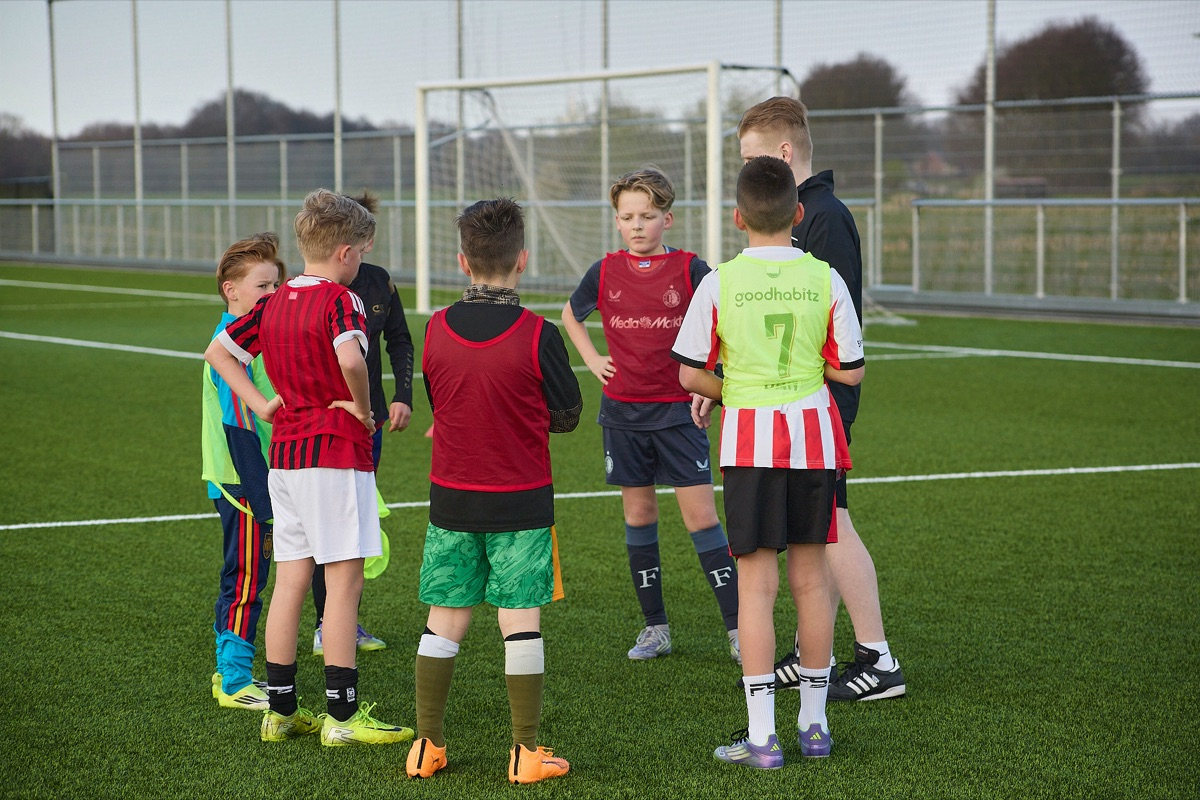
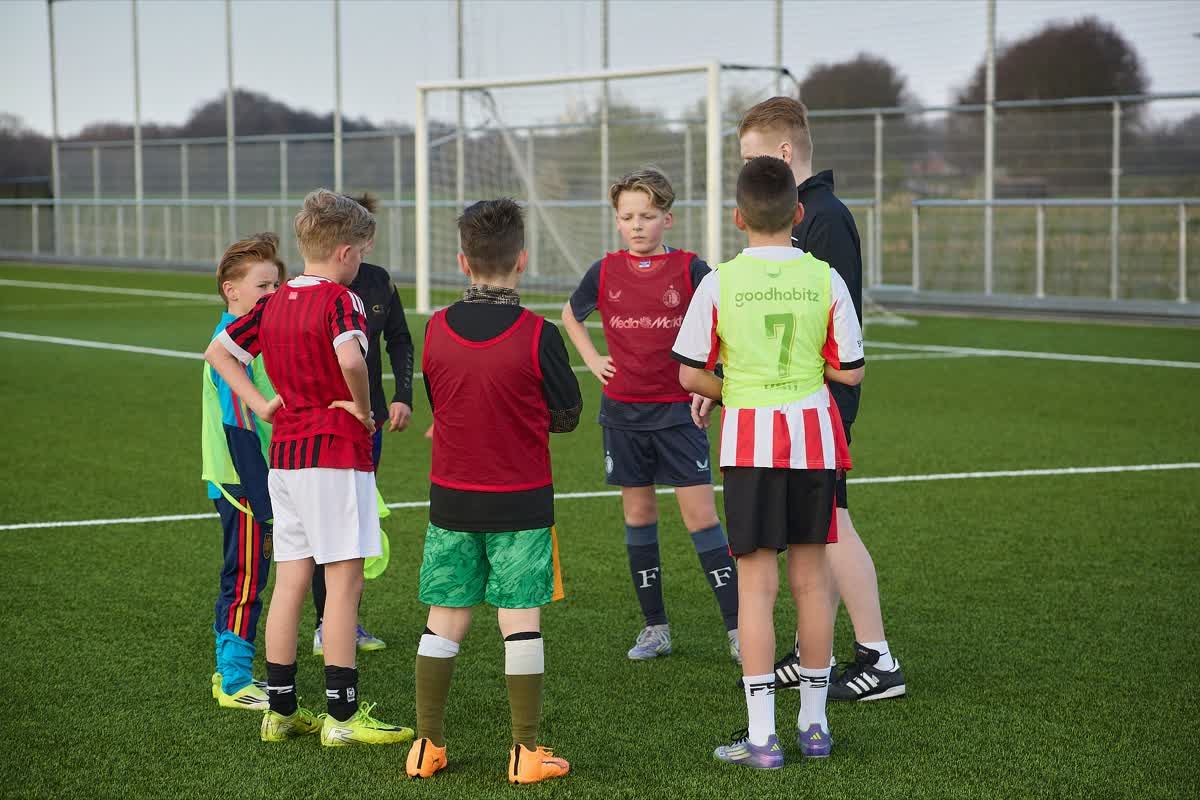
Perf pass 2: LCP preload, mobile zonder video, magere media
Hero: plain img + react-dom preload/fetchPriority; geen video op
mobile/save-data. Feature-video’s alleen desktop+in-view. Logo/JPG
fallbacks verkleind, WebP posters, gallery gecomprimeerd, browserslist
moderner, expliciete width/height op resterende imgs.

diff --git a/src/components/Hero.tsx b/src/components/Hero.tsx
@@ -2,11 +2,10 @@
 
 import React from 'react';
 import Link from 'next/link';
-import Image from 'next/image';
 
 /**
- * LCP-first hero: poster image paints immediately; video loads after idle/timeout
- * so Lighthouse does not wait on a multi‑MB MP4 for LCP.
+ * LCP: plain <img> with fetchPriority (discoverable in SSR HTML, no optimizer delay).
+ * Video only on desktop + when idle / not save-data — keeps mobile Lighthouse lean.
  */
 const Hero = () => {
   const [isMobile, setIsMobile] = React.useState(false);
@@ -14,13 +13,24 @@ const Hero = () => {
   const videoRef = React.useRef<HTMLVideoElement>(null);
 
   React.useEffect(() => {
-    const checkMobile = () => setIsMobile(window.innerWidth <= 768);
-    checkMobile();
-    window.addEventListener('resize', checkMobile);
-    return () => window.removeEventListener('resize', checkMobile);
+    const mq = window.matchMedia('(max-width: 768px)');
+    const sync = () => setIsMobile(mq.matches);
+    sync();
+    mq.addEventListener('change', sync);
+    return () => mq.removeEventListener('change', sync);
   }, []);
 
   React.useEffect(() => {
+    if (isMobile) return;
+
+    const connection = (navigator as Navigator & {
+      connection?: { saveData?: boolean; effectiveType?: string };
+    }).connection;
+    if (connection?.saveData) return;
+    if (connection?.effectiveType === '2g' || connection?.effectiveType === 'slow-2g') {
+      return;
+    }
+
     let cancelled = false;
     const start = () => {
       if (!cancelled) setLoadVideo(true);
@@ -32,25 +42,23 @@ const Hero = () => {
     };
 
     if (typeof w.requestIdleCallback === 'function') {
-      const id = w.requestIdleCallback(start, { timeout: 2000 });
+      const id = w.requestIdleCallback(start, { timeout: 2500 });
       return () => {
         cancelled = true;
         w.cancelIdleCallback?.(id);
       };
     }
 
-    const t = window.setTimeout(start, 1200);
+    const t = window.setTimeout(start, 1500);
     return () => {
       cancelled = true;
       window.clearTimeout(t);
     };
-  }, []);
+  }, [isMobile]);
 
   React.useEffect(() => {
     if (!loadVideo || !videoRef.current) return;
-    videoRef.current.play().catch(() => {
-      /* autoplay may be blocked — poster remains */
-    });
+    videoRef.current.play().catch(() => {});
   }, [loadVideo]);
 
   return (
@@ -69,20 +77,26 @@ const Hero = () => {
         backgroundColor: '#0a0a0a',
       }}
     >
-      {/* LCP element: optimized poster */}
-      <Image
+      {/* LCP element — static img, explicit dimensions, high priority */}
+      <img
         src="/hero-bg.webp"
         alt=""
-        fill
-        priority
-        sizes="100vw"
+        width={1600}
+        height={1065}
+        fetchPriority="high"
+        decoding="async"
         style={{
+          position: 'absolute',
+          top: 0,
+          left: 0,
+          width: '100%',
+          height: '100%',
           objectFit: 'cover',
           zIndex: 0,
         }}
       />
 
-      {loadVideo && (
+      {loadVideo && !isMobile && (
         <video
           ref={videoRef}
           autoPlay

diff --git a/src/app/mini-voetbalschool/page.tsx b/src/app/mini-voetbalschool/page.tsx
@@ -77,6 +77,10 @@ export default function MiniVoetbalschoolPage() {
           src="/gallery/g4.jpg"
           alt=""
           aria-hidden="true"
+          width={1600}
+          height={1067}
+          fetchPriority="high"
+          decoding="async"
           style={{
             position: "absolute",
             inset: 0,
@@ -175,9 +179,12 @@ export default function MiniVoetbalschoolPage() {
           }}
         >
           <img
-            src="/about-us-new.jpg"
+            src="/about-us-new.webp"
             alt="Trainingssfeer bij Janssen Voetbalschool"
+            width={1200}
+            height={800}
             loading="lazy"
+            decoding="async"
             style={{
               width: "100%",
               height: "100%",
@@ -389,7 +396,10 @@ export default function MiniVoetbalschoolPage() {
                   <img
                     src={photo.src}
                     alt={photo.alt}
+                    width={800}
+                    height={600}
                     loading="lazy"
+                    decoding="async"
                     style={{
                       width: "100%",
                       height: "100%",
@@ -419,6 +429,10 @@ export default function MiniVoetbalschoolPage() {
           src="/gallery/g1.jpg"
           alt=""
           aria-hidden="true"
+          width={1600}
+          height={1067}
+          loading="lazy"
+          decoding="async"
           style={{
             position: "absolute",
             inset: 0,

diff --git a/src/components/StickyFeatures.tsx b/src/components/StickyFeatures.tsx
@@ -6,19 +6,19 @@ const features = [
   {
     title: 'Individuele aandacht',
     video: '/feature-video-1.mp4',
-    poster: '/feature-poster-1.jpg',
+    poster: '/feature-poster-1.webp',
     description: 'Persoonlijke coaching om jouw unieke talenten te ontwikkelen.',
   },
   {
     title: 'Resultaat',
     video: '/feature-video-2.mp4',
-    poster: '/feature-poster-2.jpg',
+    poster: '/feature-poster-2.webp',
     description: 'Focus op vooruitgang en het behalen van sportieve doelen.',
   },
   {
     title: 'Plezier',
     video: '/feature-video-3.mp4',
-    poster: '/feature-poster-3.jpg',
+    poster: '/feature-poster-3.webp',
     description: 'De basis van elke goede voetballer is passie voor het spel.',
   },
 ];
@@ -96,7 +96,8 @@ function FeatureCard({
         }}
       />
 
-      {active && (
+      {/* Skip video on mobile — posters keep the look without multi‑MB payload */}
+      {active && !isMobile && (
         <video
           ref={videoRef}
           src={feature.video}
@@ -111,7 +112,7 @@ function FeatureCard({
             width: '100%',
             height: '100%',
             objectFit: 'cover',
-            opacity: isMobile ? 1 : 0.6,
+            opacity: 0.6,
           }}
         />
       )}

diff --git a/src/app/layout.tsx b/src/app/layout.tsx
@@ -1,5 +1,6 @@
 import type { Metadata } from "next";
 import { Inter } from "next/font/google";
+import { preload } from "react-dom";
 import "./globals.css";
 import Navbar from "@/components/Navbar";
 import Footer from "@/components/Footer";
@@ -67,6 +68,9 @@ export default function RootLayout({
 }: Readonly<{
   children: React.ReactNode;
 }>) {
+  // Discover LCP hero poster in the initial document (no JS delay)
+  preload("/hero-bg.webp", { as: "image", fetchPriority: "high" });
+
   return (
     <html lang="nl">
       <body className={inter.className}>

diff --git a/src/components/WelcomePopup.tsx b/src/components/WelcomePopup.tsx
@@ -58,7 +58,9 @@ const WelcomePopup = () => {
           <div style={{ display: 'flex', alignItems: 'center', gap: '16px', marginBottom: '20px' }}>
             <div style={{ position: 'relative' }}>
               <img 
-                src="/trainer-new.jpg" 
+                src="/trainer-new.webp"
+                width={500}
+                height={750} 
                 alt="Jelte Janssen" 
                 loading="lazy"
                 style={{ 

diff --git a/src/components/Preloader.tsx b/src/components/Preloader.tsx
@@ -58,7 +58,9 @@ const Preloader = () => {
               }}
             >
               <img 
-                src="/logo.png" 
+                src="/logo.webp"
+                width={160}
+                height={50} 
                 alt="Janssen Voetbalschool Logo" 
                 fetchPriority="high"
                 style={{ 

diff --git a/src/components/Navbar.tsx b/src/components/Navbar.tsx
@@ -137,7 +137,8 @@ const Navbar = () => {
             alt="Janssen Voetbalschool"
             width={160}
             height={50}
-            priority
+            sizes="160px"
+            /* no priority — keep LCP on hero poster */
             style={{
               height: '50px',
               width: 'auto',

diff --git a/src/components/Footer.tsx b/src/components/Footer.tsx
@@ -43,6 +43,7 @@ const Footer = () => {
               width={200}
               height={80}
               sizes="200px"
+              loading="lazy"
               style={{
                 height: '80px',
                 width: 'auto',
